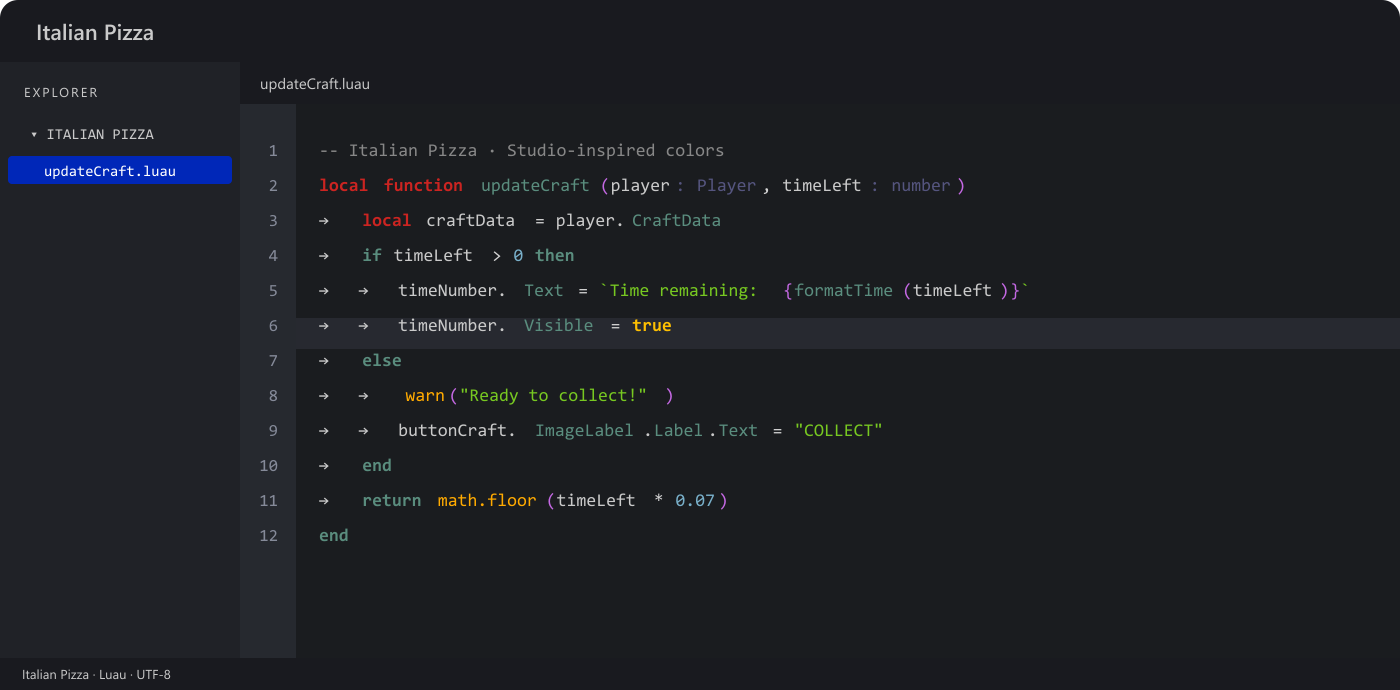
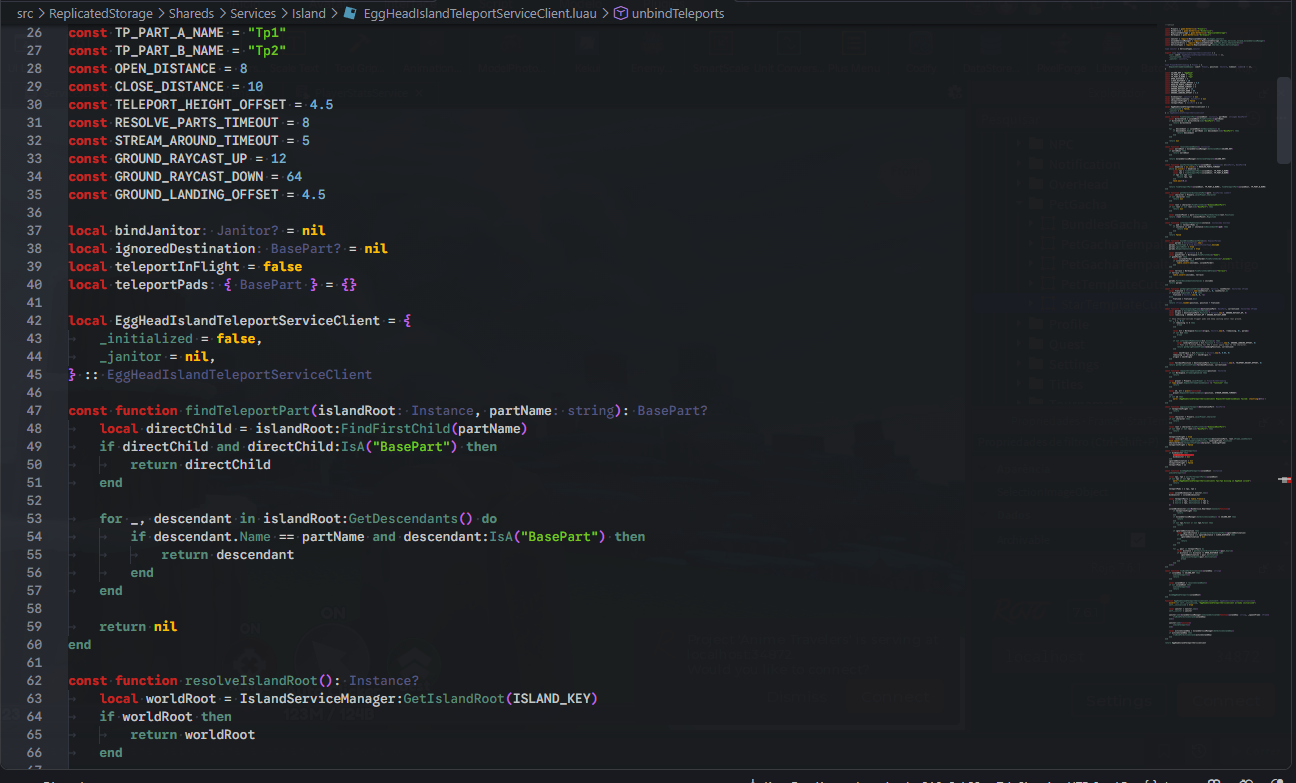
Fix blue token fallbacks and use author supplied extension preview

diff --git a/.qa/report.html b/.qa/report.html
@@ -1,0 +1,1 @@
+<!doctype html><html lang="pt-BR"><meta charset="utf-8"><title>Italian Pizza — validação</title><style>body{background:#1a1c1f;color:#cacaca;font:18px/1.6 system-ui;max-width:850px;margin:48px auto;padding:24px}h1{color:#ffc001}h2{color:#5a8d7e}code{color:#c468e3}</style><body><h1>Italian Pizza 1.0.2: correções verificadas</h1><p>O azul dos tipos foi substituído pelo cinza arroxeado da referência. O controle de fluxo usa verde-azulado. Todos os pares de parênteses, colchetes e chaves mantêm o roxo. A imagem enviada pelo autor é a prévia do pacote.</p><h2>O que foi conferido</h2><ul><li>Nove testes verificaram as cores, a identidade do tema, os arquivos e a ausência dos antigos azuis.</li><li>21 verificações usaram as gramáticas reais de Luau e CL++ para conferir as cores de palavras, números, comentários, funções e delimitadores.</li><li>20 verificações da gramática CL++ confirmaram que await, spawn, return e thread não são confundidos com tipos. O teste foi repetido na extensão instalada.</li><li>As duas extensões foram instaladas pela ferramenta oficial do VS Code. Os arquivos instalados têm o mesmo conteúdo dos arquivos validados.</li></ul><h2>Limite da verificação</h2><p>A aparência da janela real do editor não foi capturada. Uma janela que já estava aberta pode precisar do comando Developer: Reload Window. As setas mostram tabs; espaços aparecem como pontos. A distribuição pública é pelo GitHub Releases.</p></body></html>

diff --git a/tests/test_theme.py b/tests/test_theme.py
@@ -40,6 +40,16 @@ class ThemeTests(unittest.TestCase):
         rule = next(rule for rule in THEME['tokenColors'] if rule['name'] == 'Types')
         self.assertEqual(rule['settings']['foreground'], PALETTE['type'])
 
+    def test_clpp_keywords_and_native_types_do_not_use_blue_fallbacks(self):
+        colors = THEME['semanticTokenColors']
+        self.assertEqual(colors['keyword:clpp'], '#5A8D7E')
+        self.assertEqual(colors['type.defaultLibrary:clpp'], '#55557F')
+        self.assertEqual(colors['type.defaultLibrary'], '#55557F')
+        forbidden = {'#79B0CA', '#3D7AB0', '#335FFF', '#4270FF', '#0027B8', '#2A4193'}
+        used = list(THEME['colors'].values()) + list(colors.values())
+        used += [rule['settings']['foreground'] for rule in THEME['tokenColors']]
+        self.assertFalse(forbidden.intersection(color.upper() for color in used))
+
     def test_native_and_user_methods_are_distinct(self):
         self.assertEqual(THEME['semanticTokenColors']['method'], PALETTE['control'])
         self.assertEqual(THEME['semanticTokenColors']['method.defaultLibrary'], PALETTE['builtin'])

diff --git a/.qa/REPORT.md b/.qa/REPORT.md
@@ -1,0 +1,34 @@
+# Italian Pizza 1.0.2 — 2026-10-16
+
+The author reported blue CL++ types/control tokens and supplied the required
+extension preview. Replaced blue palette accents, added explicit native/CL++
+semantic type rules, and kept all six bracket levels purple. Types use #55557F;
+control flow uses #5A8D7E. The preview is copied byte-for-byte from the supplied PNG.
+
+A separate CL++ grammar defect classified `await Read()`, `spawn Read()` and
+`post(await pending)` as type/function-declaration patterns. Reserved expression
+keywords now stay out of those guessed-type patterns in CL++ extension 0.10.8.
+The theme does not replace or inject language grammars.
+
+Validation: 9 public configuration/artifact regression tests; 21 actual
+Luau/CL++ TextMate color checks through Shiki/Oniguruma; 20 CL++ grammar
+classification checks, repeated against the installed grammar. VS Code official
+CLI installation succeeded for both extensions, and installed file digests match
+the validated sources. The native compiler bundled in CL++ is the previous
+immutable validated compiler, rather than unrelated in-progress compiler work.
+The installed theme was selected using its new stable ID. Existing fonts, layout,
+icon themes and unrelated workspace changes were preserved. Tab indicators are
+enabled; real tabs show arrows and spaces show dots.
+
+Live editor rendering has not been screenshot-verified. An already-open editor
+host may need Developer: Reload Window after installing the language extension.
+Public distribution is GitHub Releases, not a claimed Marketplace listing.
+
+| Layer | Ran | Passed | Real bugs remaining | Flaky | Stale |
+| --- | ---: | ---: | ---: | ---: | ---: |
+| Theme regressions | 9 | 9 | 0 | 0 | 0 |
+| Actual syntax colors | 21 | 21 | 0 | 0 | 0 |
+| Installed CL++ grammar | 20 | 20 | 0 | 0 | 0 |
+
+Verdict: SHIP for the tested theme/grammar corrections; visible editor rendering
+remains a separate manual check.

diff --git a/README.md b/README.md
@@ -8,12 +8,12 @@ built-ins, teal control flow and matching purple parentheses, brackets and brace
 
 ## Install
 
-Download `italian-pizza-1.0.1.vsix` from [Releases](https://github.com/KartzRbx/italian-pizza/releases/latest).
+Download `italian-pizza-1.0.2.vsix` from [Releases](https://github.com/KartzRbx/italian-pizza/releases/latest).
 In VS Code, run **Extensions: Install from VSIX…**, select the file, then choose
 **Preferences: Color Theme → Italian Pizza**. Or run:
 
 ```sh
-code --install-extension italian-pizza-1.0.1.vsix
+code --install-extension italian-pizza-1.0.2.vsix
 ```
 
 This is a color theme: it has no extension runtime, telemetry, network requests,
@@ -34,14 +34,16 @@ themes. It is distributed publicly on GitHub; a Marketplace listing is separate.
 | Comments | `#878787` |
 | Native functions | `#FFAA00` |
 | Boolean values | `#FFC001` |
-| Numbers | `#79B0CA` |
+| Numbers | `#D4B98C` |
 | Types (muted purple-gray) | `#55557F` |
 | Parentheses, brackets and braces | `#C468E3` |
 
 The Luau-specific scope for the `function` header is red; body control keywords
 remain teal. All six VS Code bracket-pair colors use the same reference purple,
 so enabling bracket-pair colorization does not introduce rainbow colors.
-Semantic colors are supplied for language servers, including CL++.
+Semantic colors are supplied for language servers, including explicit CL++
+primitive/default-library types and keywords. Blue UI accents are replaced with
+warm tomato and muted brown accents.
 Token classification depends on the language extension. Fonts, text smoothing,
 transparency extensions and user color overrides can affect the visible result.
 The theme preserves your font, layout, icons and editor preferences.

diff --git a/CHANGELOG.md b/CHANGELOG.md
@@ -1,5 +1,11 @@
 # Changelog
 
+## 1.0.2
+
+- Remove blue accents and use warm cream numbers.
+- Explicitly color semantic CL++ keywords and native types to prevent blue fallbacks.
+- Add a stable theme ID so the corrected theme can be selected independently of a cached older version.
+
 ## 1.0.1
 
 - Match the reference type annotations to muted purple-gray `#55557F`.
